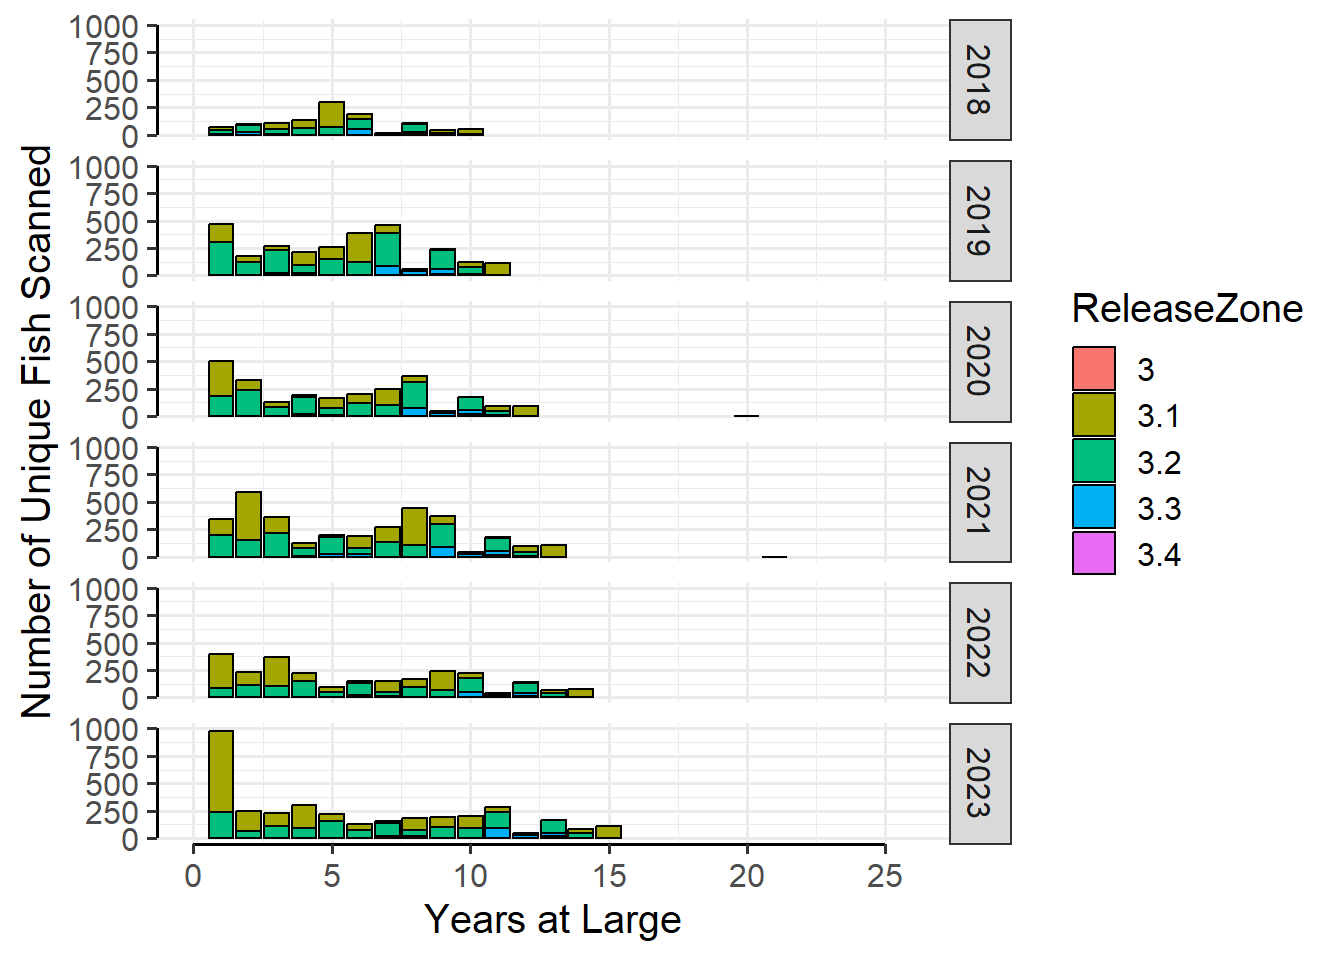
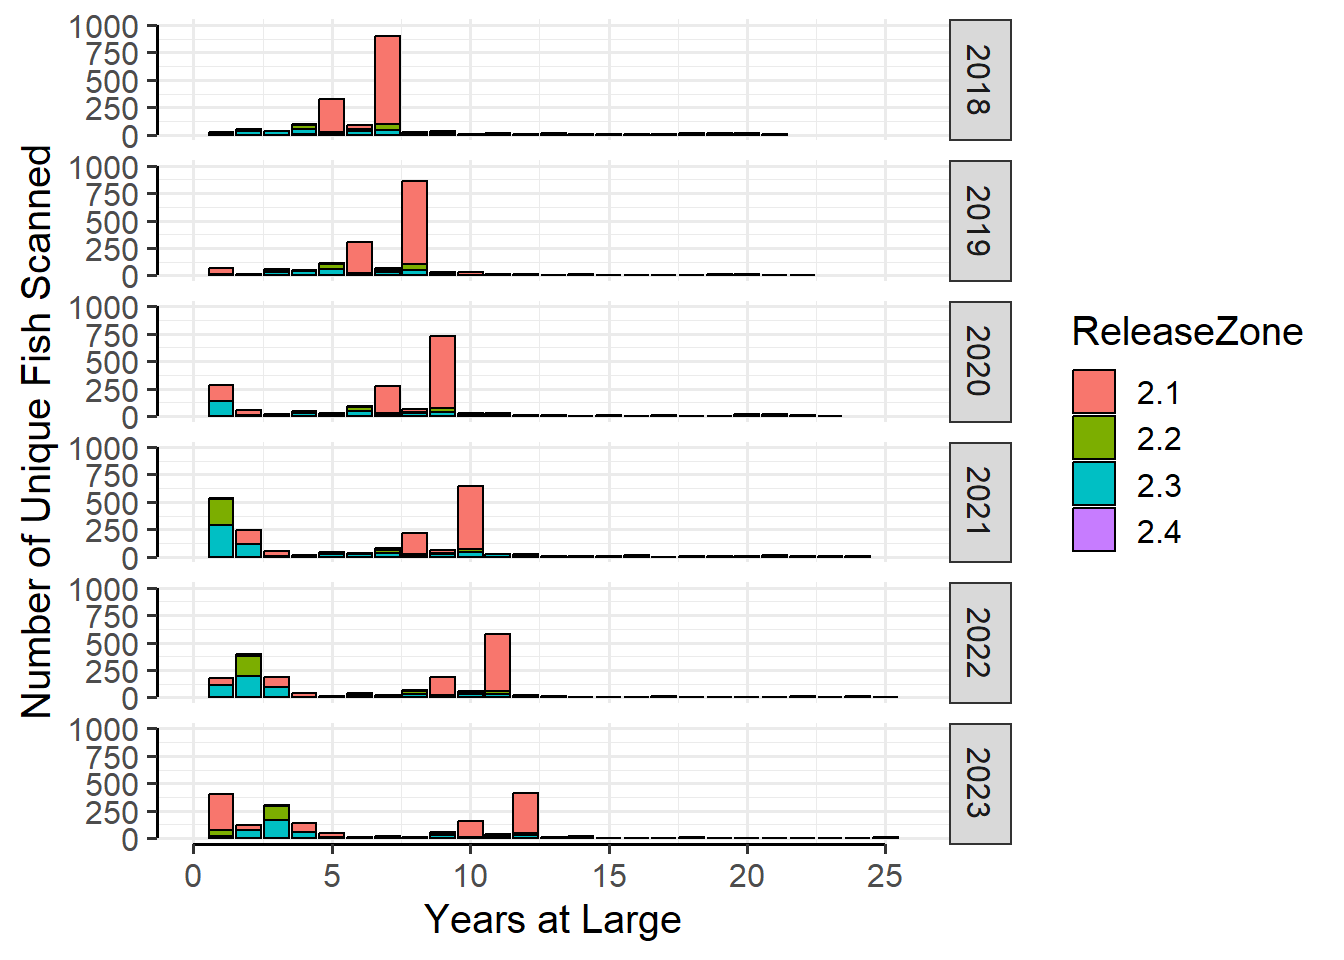
Age structure changes

diff --git a/ReachAnalysis.html b/ReachAnalysis.html
@@ -48,7 +48,7 @@ ul.task-list li input[type="checkbox"] {
 
 <section id="introduction" class="level2">
 <h2 class="anchored" data-anchor-id="introduction">Introduction</h2>
-<p>This summary analysis for MSCP Reach 3 is auto-generated and results stated within should be considered preliminary. These results are based on an analysis of stocking and scanning records. PIT scanning records are restricted to Fiscal Year (FY) 2013 through FY 2024. Several approaches are used to assess the overall status of the population in the reach. Known survival analysis provides a detailed fish by fish accounting of the fish that are known to be alive in the reach based on PIT scanning. All fish must be at large for a minimum 120 days of PIT scanning regardless of tagging date.</p>
+<p>This summary analysis for MSCP Reach 2 is auto-generated and results stated within should be considered preliminary. These results are based on an analysis of stocking and scanning records. PIT scanning records are restricted to Fiscal Year (FY) 2013 through FY 2024. Several approaches are used to assess the overall status of the population in the reach. Known survival analysis provides a detailed fish by fish accounting of the fish that are known to be alive in the reach based on PIT scanning. All fish must be at large for a minimum 120 days of PIT scanning regardless of tagging date.</p>
 </section>
 <section id="age-structure" class="level2">
 <h2 class="anchored" data-anchor-id="age-structure">Age Structure</h2>
